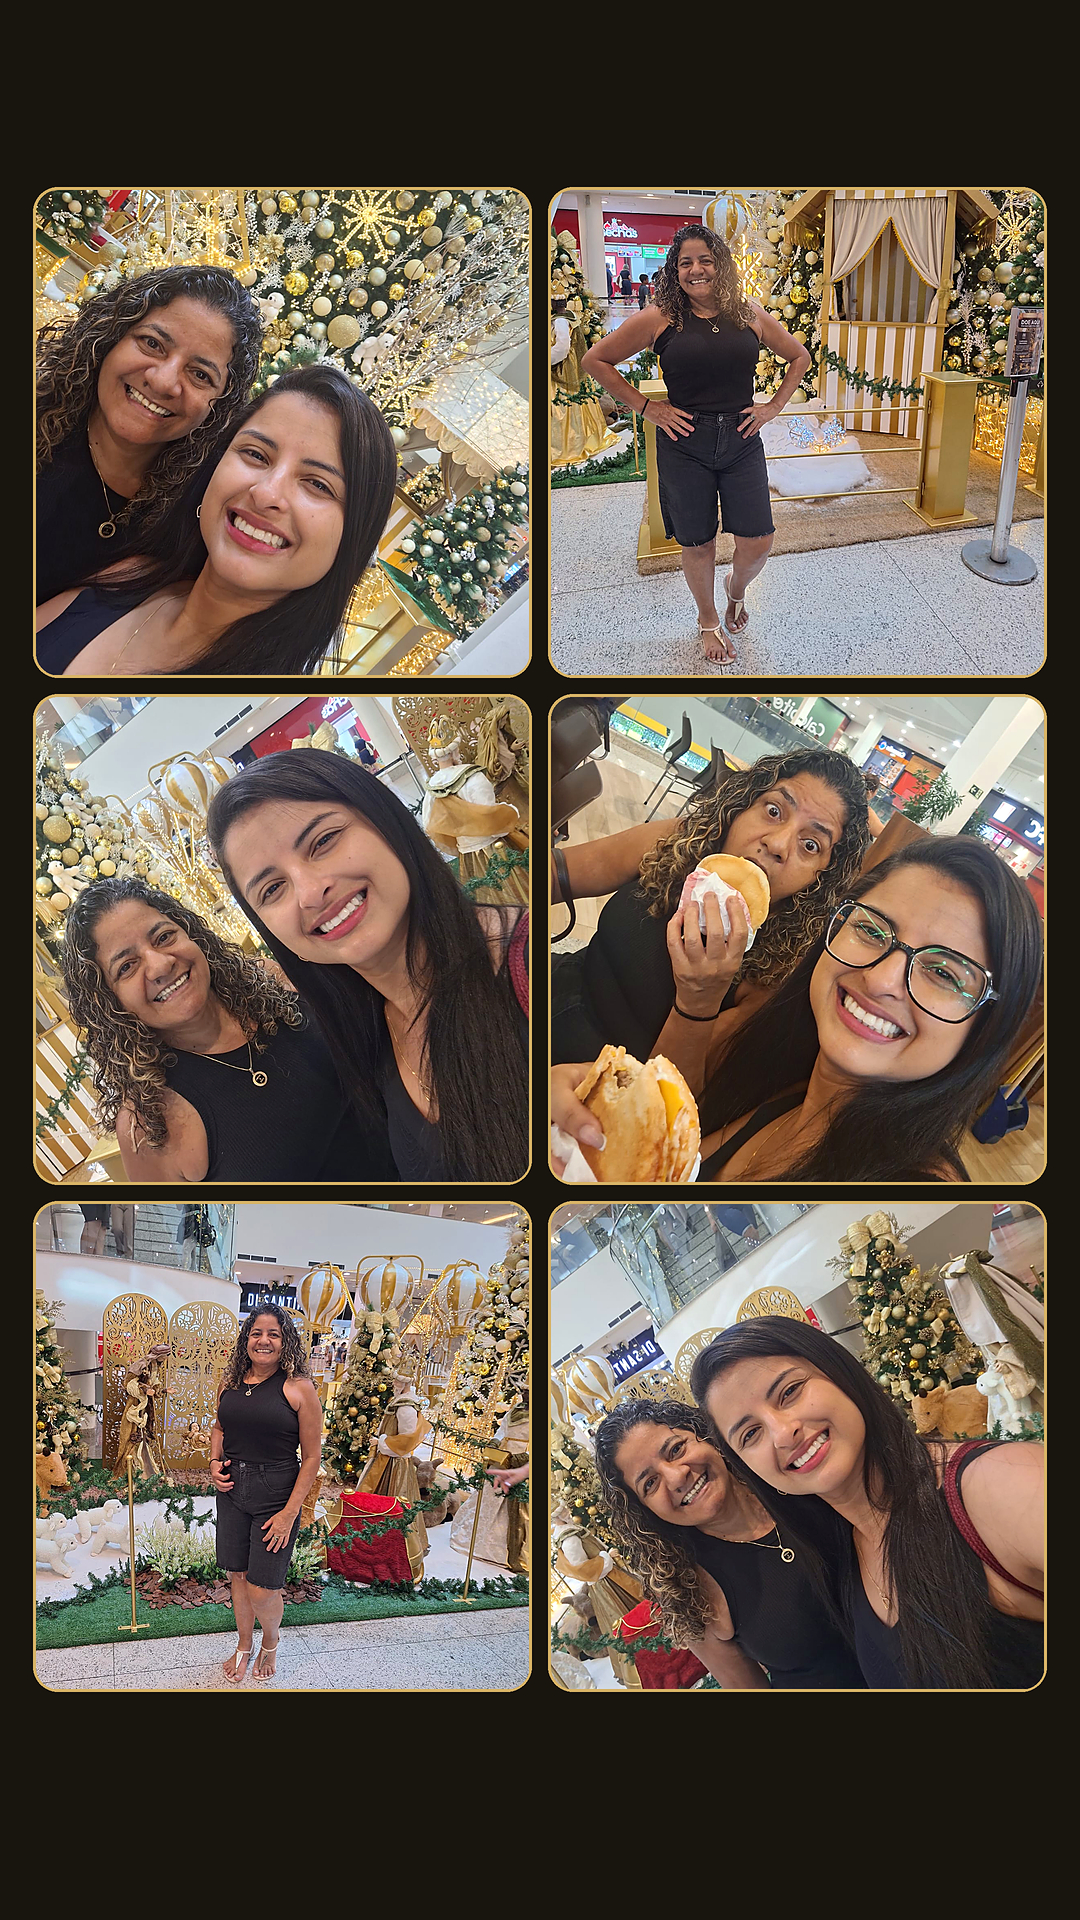
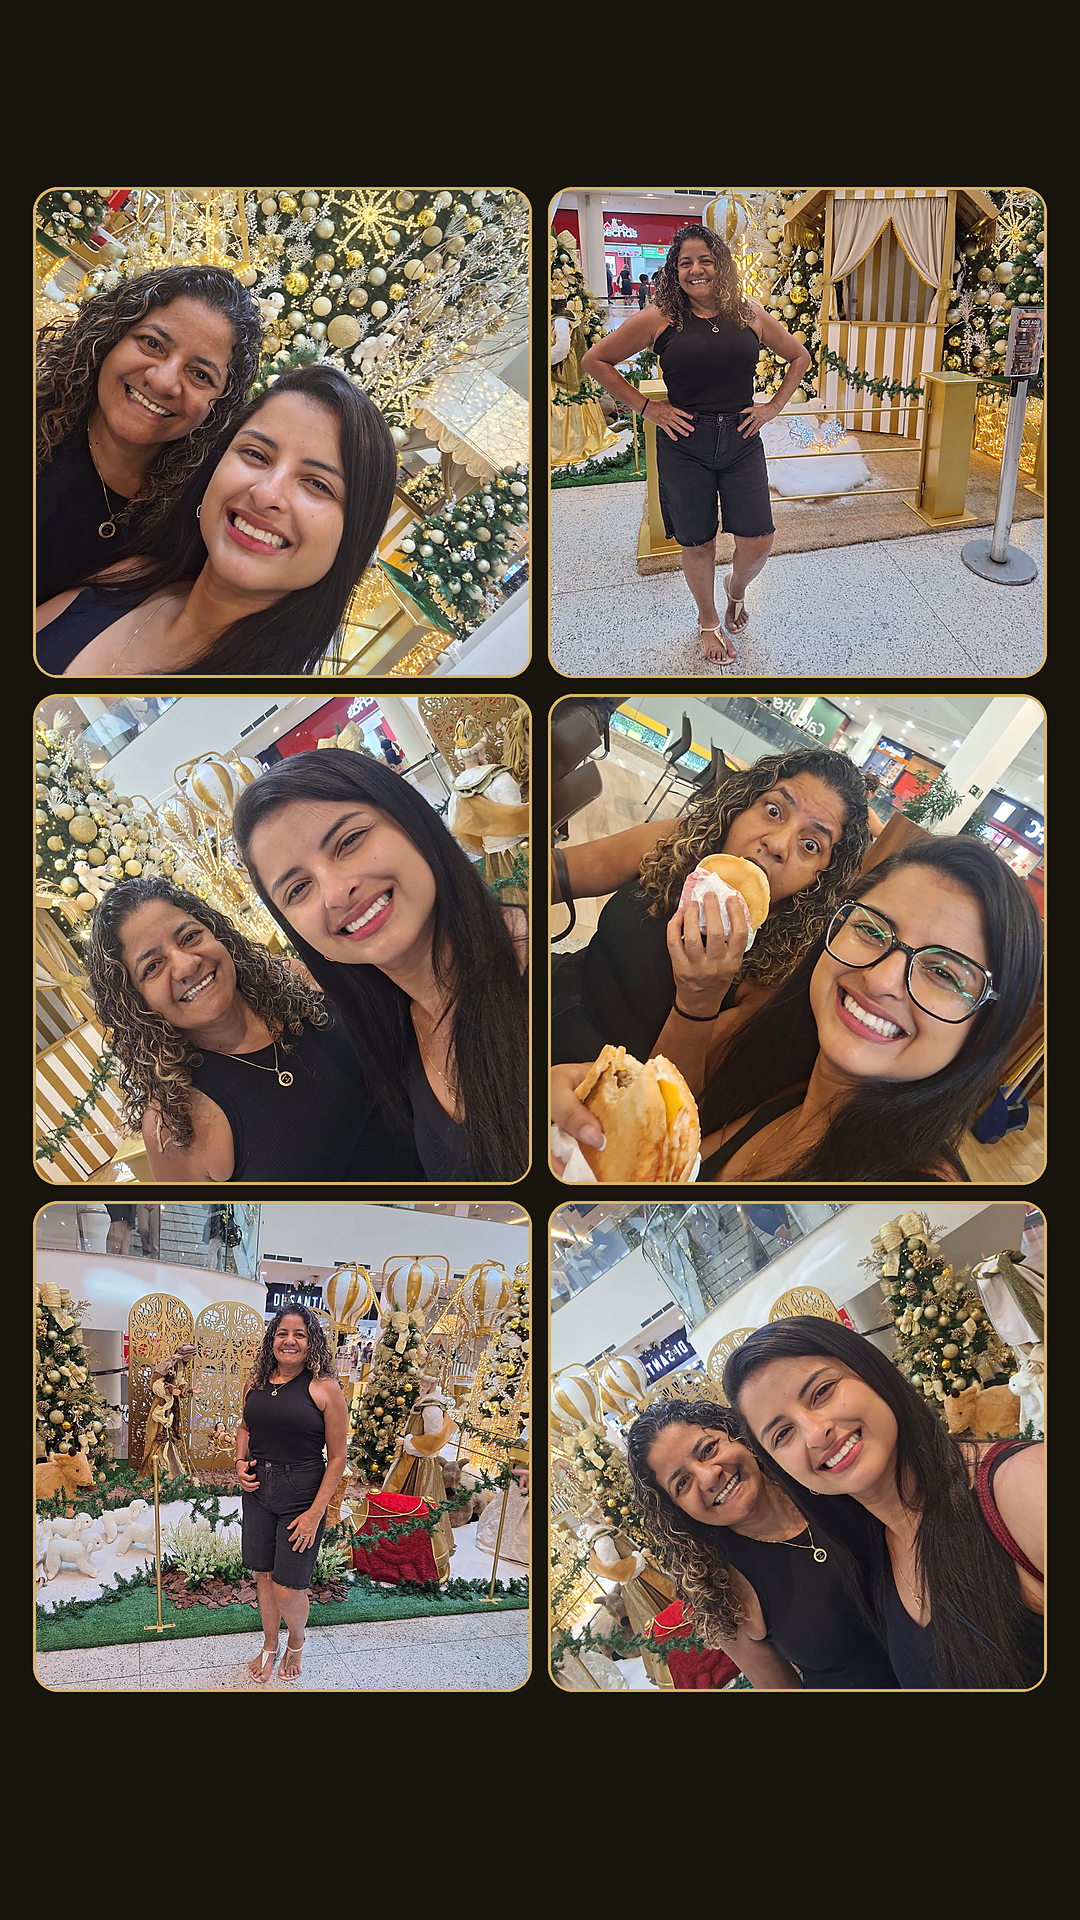
Remove a marca "Galaxy A54 5G" de todas as fotos
Novo limpar_marca.py reconstrói os pixels do texto (inpainting com a
textura do entorno) e grava em limpas/. As duas montagens agora usam
essas fotos.

Claude-Session: https://claude.ai/code/session_01DPUwB38rfDhKXdTQKzNKBx

Changed region(s): [[0.0306, 0.3438, 0.9778, 0.9062], [0.55, 0.3125, 0.6417, 0.3438]]

diff --git a/montagem-natal/stories.py b/montagem-natal/stories.py
@@ -9,7 +9,7 @@ from pathlib import Path
 from PIL import Image, ImageDraw, ImageEnhance, ImageFilter
 
 BASE = Path(__file__).parent
-SRC = BASE / "originais"
+SRC = BASE / "limpas"   # fotos já sem a marca "Galaxy A54 5G" (limpar_marca.py)
 S = 2                                   # escala de trabalho
 W, H = 1080 * S, 1920 * S
 SIDE, GAP, TOP, BOTTOM, R = 36 * S, 22 * S, 190 * S, 230 * S, 22 * S
@@ -18,8 +18,8 @@ BG, GOLD = (24, 20, 14), (214, 178, 102)
 # (arquivo, foco x, foco y) para o recorte: onde estão os rostos/corpo
 GRID = [
     ("foto-1.jpg", 0.42, 0.55), ("foto-2.jpg", 0.47, 0.60),
-    ("foto-4.jpg", 0.60, 0.55), ("foto-3.jpg", 0.55, 0.55),
-    ("foto-5.jpg", 0.61, 0.55), ("foto-6.jpg", 0.61, 0.55),
+    ("foto-4.jpg", 0.56, 0.55), ("foto-3.jpg", 0.55, 0.55),
+    ("foto-5.jpg", 0.57, 0.55), ("foto-6.jpg", 0.56, 0.55),
 ]
 
 cw = (W - 2 * SIDE - GAP) // 2
@@ -37,17 +37,6 @@ def crop_fill(img, fx, fy, w, h):
     return img.crop((x, y, x + cw_, y + ch_)).resize((w, h), Image.LANCZOS)
 
 
-def limpa_marca(img, f):
-    """Cobre o texto "Galaxy A54 5G" da foto-2 com o piso logo abaixo dele."""
-    if f != "foto-2.jpg":
-        return img
-    patch = img.crop((60, 1530, 340, 1595))
-    m = Image.new("L", patch.size, 0)
-    ImageDraw.Draw(m).rectangle((8, 8, patch.width - 9, patch.height - 9), fill=255)
-    img.paste(patch, (60, 1460), m.filter(ImageFilter.GaussianBlur(5)))
-    return img
-
-
 def hd(img):
     img = img.filter(ImageFilter.UnsharpMask(radius=2.2, percent=70, threshold=2))
     img = ImageEnhance.Contrast(img).enhance(1.06)
@@ -61,7 +50,7 @@ ImageDraw.Draw(mask).rounded_rectangle((0, 0, cw, ch), R, fill=255)
 for i, (f, fx, fy) in enumerate(GRID):
     col, row = i % 2, i // 2
     x, y = SIDE + col * (cw + GAP), TOP + row * (ch + GAP)
-    img = hd(crop_fill(limpa_marca(Image.open(SRC / f).convert("RGB"), f), fx, fy, cw, ch))
+    img = hd(crop_fill(Image.open(SRC / f).convert("RGB"), fx, fy, cw, ch))
     d.rounded_rectangle((x - 3 * S, y - 3 * S, x + cw + 3 * S - 1, y + ch + 3 * S - 1), R + 3 * S, fill=GOLD)
     canvas.paste(img, (x, y), mask)
 

diff --git a/montagem-natal/limpar_marca.py b/montagem-natal/limpar_marca.py
@@ -1,0 +1,37 @@
+"""Remove a marca "Galaxy A54 5G" do canto inferior esquerdo das fotos.
+
+1. O texto está no mesmo lugar em todas as fotos, então o formato exato das
+   letras sai do mínimo de brilho entre as 6 (só o texto é claro em todas).
+2. Os pixels das letras são reconstruídos pela vizinhança (inpainting) e
+   recebem a textura (grão do piso, grama etc.) de um trecho logo acima,
+   para não ficar mancha lisa.
+Lê de originais/ e grava em limpas/; o resto da foto não é alterado.
+"""
+from pathlib import Path
+import cv2
+import numpy as np
+
+BASE = Path(__file__).parent
+OUT = BASE / "limpas"
+OUT.mkdir(exist_ok=True)
+X0, X1, B0, B1 = 50, 350, 140, 70          # caixa: x e distância até a base
+SHIFT = 40                                  # de onde vem a textura (px acima)
+
+files = sorted((BASE / "originais").glob("foto-*.jpg"))
+imgs = [cv2.imread(str(f)) for f in files]
+rois = [cv2.cvtColor(im[im.shape[0] - B0:im.shape[0] - B1, X0:X1], cv2.COLOR_BGR2GRAY) for im in imgs]
+glyph = (np.min(np.stack(rois), 0) > 135).astype(np.uint8) * 255
+glyph = cv2.dilate(glyph, cv2.getStructuringElement(cv2.MORPH_ELLIPSE, (7, 7)), iterations=1)
+
+for f, img in zip(files, imgs):
+    h, w = img.shape[:2]
+    mask = np.zeros((h, w), np.uint8)
+    mask[h - B0:h - B1, X0:X1] = glyph
+    base = cv2.inpaint(img, mask, 4, cv2.INPAINT_TELEA).astype(np.float32)
+    src = np.roll(img, SHIFT, axis=0).astype(np.float32)          # pixel de 34 px acima
+    grain = src - cv2.GaussianBlur(src, (0, 0), 2.5)
+    fill = np.clip(base + grain, 0, 255)
+    soft = cv2.GaussianBlur(mask, (0, 0), 1.2).astype(np.float32)[..., None] / 255
+    out = img.astype(np.float32) * (1 - soft) + fill * soft
+    cv2.imwrite(str(OUT / f.name), out.round().astype(np.uint8), [cv2.IMWRITE_JPEG_QUALITY, 100])
+    print(f.name, "ok")

diff --git a/montagem-natal/montar.py b/montagem-natal/montar.py
@@ -9,7 +9,7 @@ from pathlib import Path
 from PIL import Image, ImageDraw, ImageEnhance, ImageFilter
 
 BASE = Path(__file__).parent
-SRC = BASE / "originais"
+SRC = BASE / "limpas"   # fotos já sem a marca "Galaxy A54 5G" (limpar_marca.py)
 
 M, G, R = 80, 40, 28           # margem, espaço entre fotos, raio dos cantos
 CELL_W = 1600                   # largura de cada foto
